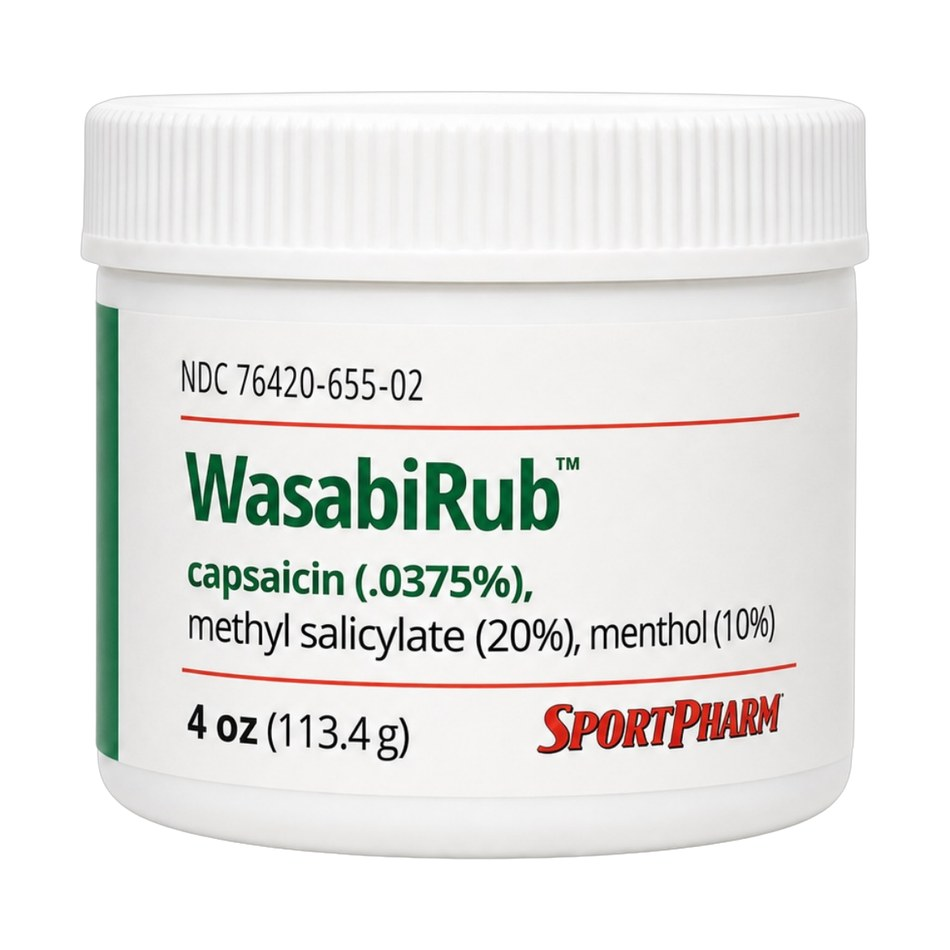
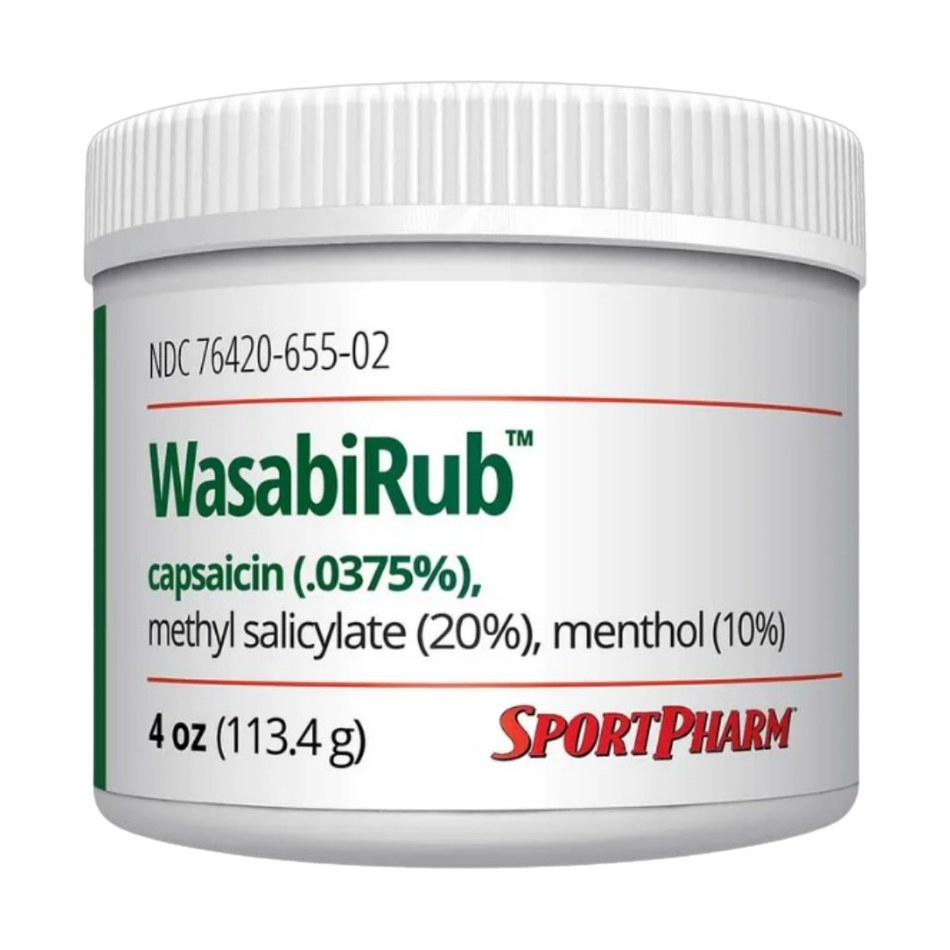
WasabiRub tweaks: shrink hero jar, slow testimonial carousel to 7s, use wasabi-rub2 render for WasabiRub jar, restore original stacked duo image

Changed region(s): [[0.0611, 0.0916, 0.9158, 0.9158], [0.0916, 0.1221, 0.1221, 0.1526]]

diff --git a/wasabirub.html b/wasabirub.html
@@ -56,7 +56,7 @@
     .text-link{border-bottom:1px solid #82918a;padding-bottom:4px;font-size:11px;font-weight:900;letter-spacing:.1em}
     .trust-row{display:flex;flex-wrap:wrap;gap:18px;margin-top:25px;color:#a9b7b1;font-size:8px;font-weight:900;letter-spacing:.08em}
     .hero-product{position:relative;display:flex;align-items:center;justify-content:center;min-height:520px}
-    .hero-product img{position:relative;z-index:2;width:min(420px,88%);filter:drop-shadow(0 28px 30px rgba(0,0,0,.42));animation:float 5s ease-in-out infinite}
+    .hero-product img{position:relative;z-index:2;width:min(330px,74%);filter:drop-shadow(0 28px 30px rgba(0,0,0,.42));animation:float 5s ease-in-out infinite}
     .hero-product:after{content:"";position:absolute;width:310px;height:310px;background:radial-gradient(circle,rgba(39,134,90,.4),rgba(39,134,90,.12) 45%,transparent 72%);filter:blur(10px)}
     .orbit{position:absolute;z-index:1;border:1px solid rgba(255,255,255,.11);border-radius:50%}
     .orbit.one{width:380px;height:380px}.orbit.two{width:470px;height:470px}
@@ -285,7 +285,7 @@
         var car=document.getElementById("tcarousel");if(!car)return;
         var slides=[].slice.call(car.querySelectorAll(".tslide"));
         var dotsWrap=document.getElementById("tdots");
-        var i=0,timer=null,DELAY=3000;
+        var i=0,timer=null,DELAY=7000;
         slides.forEach(function(_,idx){
           var d=document.createElement("button");
           d.className="tdot"+(idx===0?" is-active":"");
